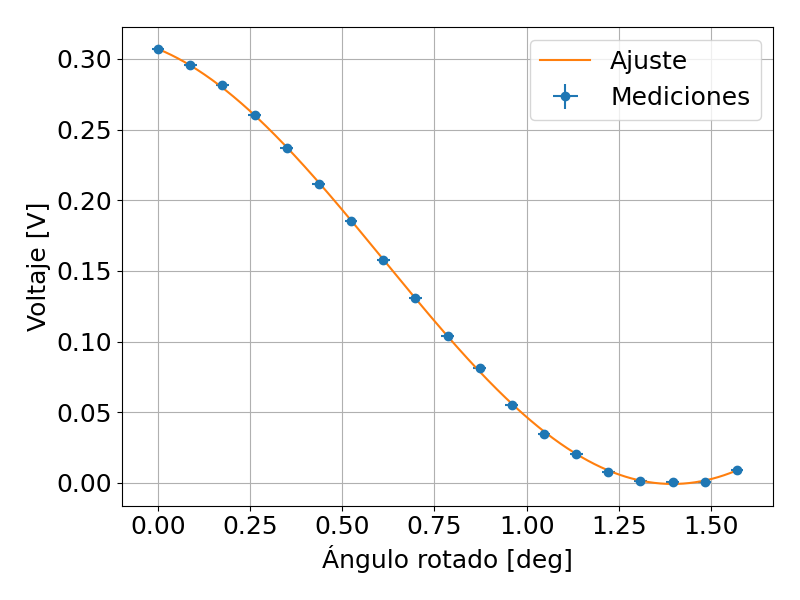
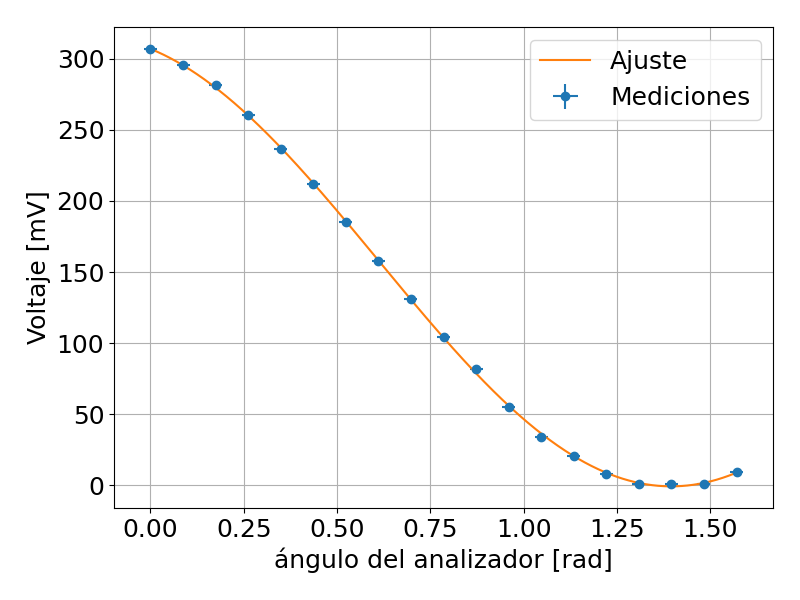
2024-06-28 20:57

diff --git a/common/plot.py b/common/plot.py
@@ -245,6 +245,7 @@ def data_and_fit(
     fitlabel: str = "Ajuste",
     xlabel: str = None,
     ylabel: str = None,
+    units: float = None,
     residue_units: tuple[float, str] = None,
     noshow=False,
     saveto: Path = None,
@@ -254,6 +255,11 @@ def data_and_fit(
     Plot data, fit and residue. Works similar to `plot.data()` except that
     `y_data` may only contain a single array of data.
     """
+
+    if units is not None:
+        if ylabel is None:
+            logger.warning("Did not change ylabel to accomodate for units.")
+        y_data *= units
 
     xlabel = xlabel if xlabel is not None else _data_name(x_data)
     ylabel = ylabel if ylabel is not None else _data_name(y_data)
@@ -283,6 +289,9 @@ def data_and_fit(
         x_fit = np.linspace(min(x_data), max(x_data), n_points)
 
     y_fit = fit_func.func.f(x_fit, *fit_func.params)
+
+    if units is not None:
+        y_fit *= units
 
     # Plot fit in 'ax' (on top of the data)
     ax.plot(

diff --git a/4 - óptica/c8/src/pol_cos2.py b/4 - óptica/c8/src/pol_cos2.py
@@ -5,11 +5,15 @@ THETA_ERROR = 1 * np.pi / 180
 
 
 def main(angle, volt, error) -> None:
+
+    # V -> mV
+    volt *= 1000
+
     volt_fit = fit.utils.fitnsave(
         fit.f.cos_sq,
         angle,
         volt,
-        p0=[0, 1, 1, -10 * np.pi / 180],
+        p0=[0, 1000, 1, -10 * np.pi / 180],
         yerr=error
     )
 
@@ -18,4 +22,6 @@ def main(angle, volt, error) -> None:
         volt,
         (THETA_ERROR, error),
         volt_fit,
+        xlabel="ángulo del analizador [rad]",
+        ylabel="Voltaje [mV]",
     )
